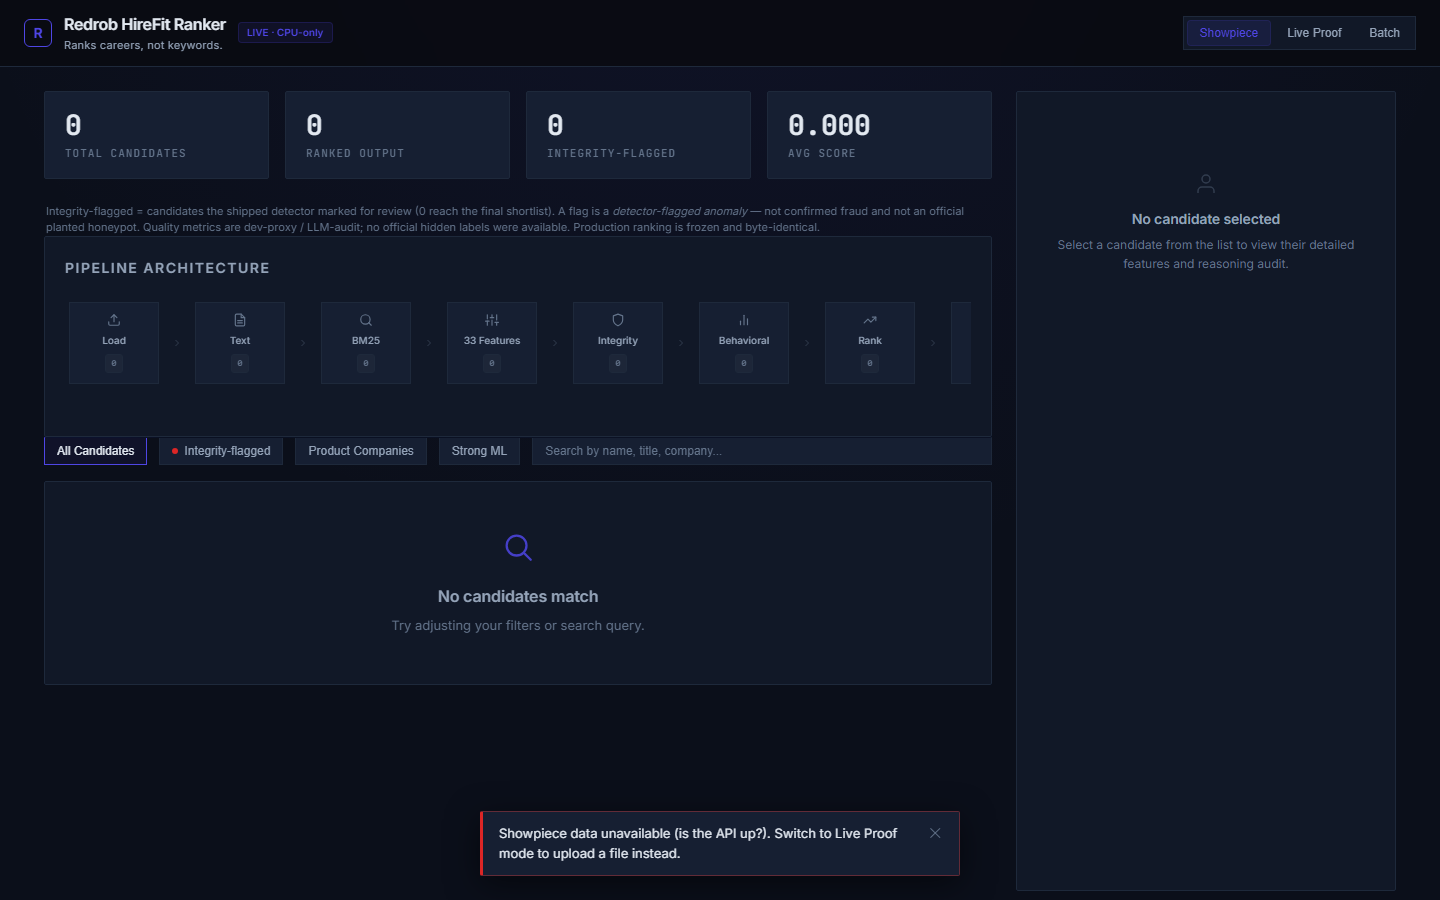
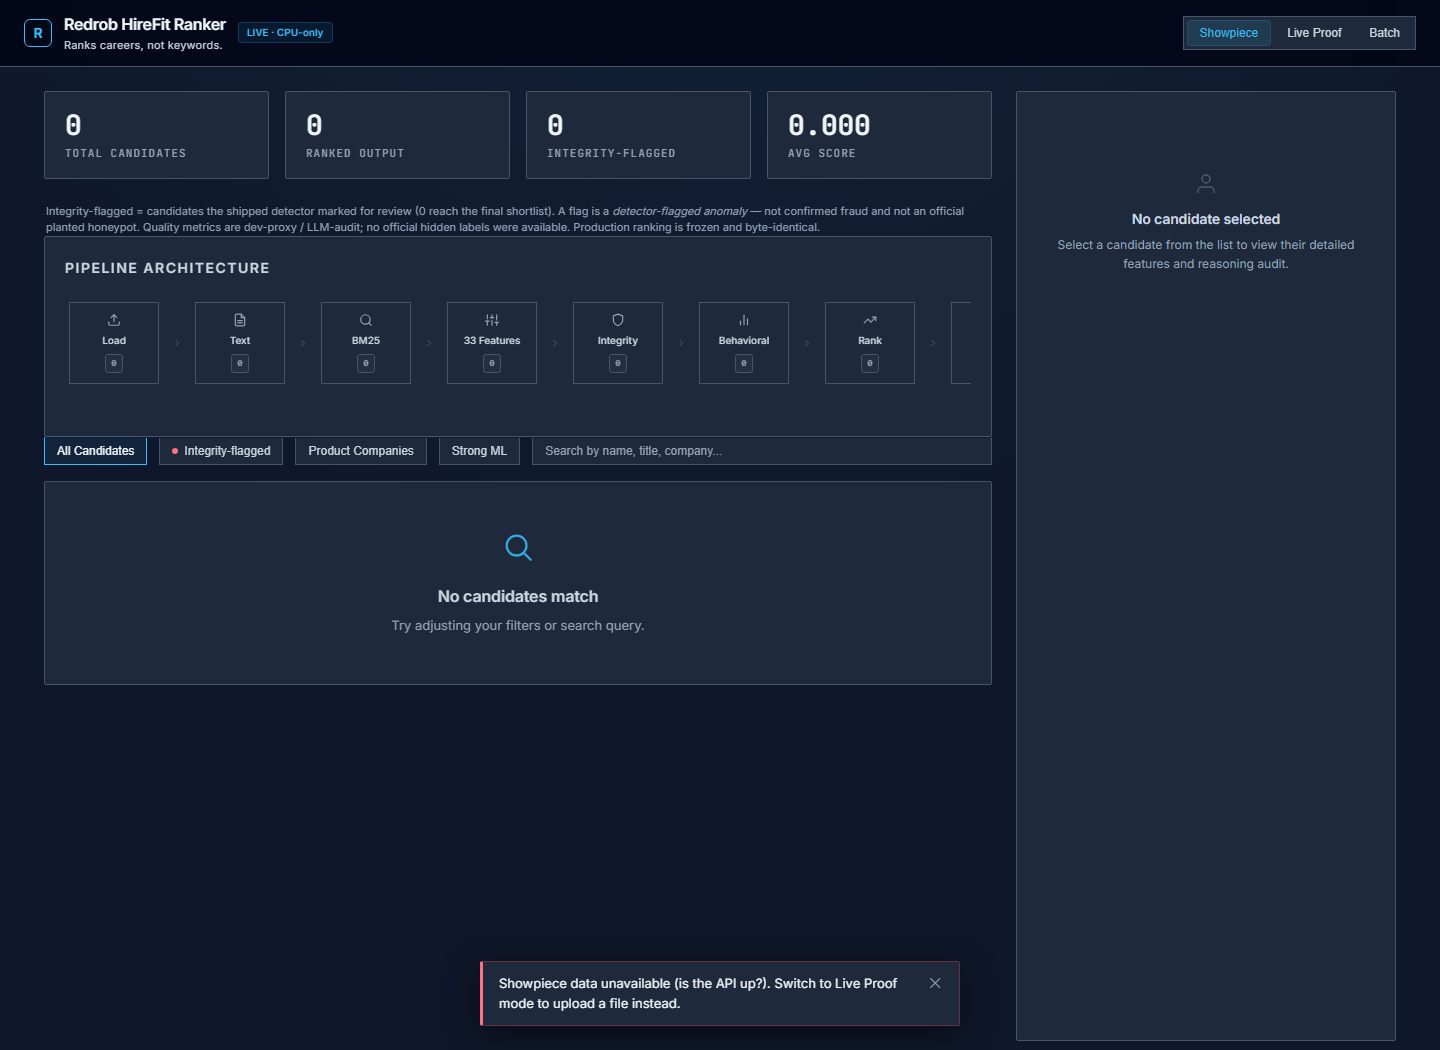
feat(frontend): Flight Deck palette — bright 400-level accents (sky/amber/green/rose) + visible borders on slate, across all 3 surfaces
Fixes low-contrast muted accents on dark: sky #38BDF8 / amber #FBBF24 / green #4ADE80 /
rose #FB7185, slate bg #0F172A, VISIBLE borders #475569, brighter text #F1F5F9/#CBD5E1.
Dark retained (instrument identity). Structure unchanged; golden untouched; 198 tests pass.

diff --git a/apps/api/static/index.html b/apps/api/static/index.html
@@ -11,23 +11,23 @@
     /* ── CSS RESET & BASE ── */
     *, *::before, *::after { margin: 0; padding: 0; box-sizing: border-box; }
     :root {
-      --bg-deep: #0B0F1A;
-      --bg-panel: #111827;
-      --bg-card: #161F32;
-      --border-glass: #1E293B;
-      --text-primary: #E2E8F0;
-      --text-secondary: #94A3B8;
-      --text-muted: #64748B;
+      --bg-deep: #0F172A;
+      --bg-panel: #1E293B;
+      --bg-card: #1E293B;
+      --border-glass: #475569;   /* Flight Deck — visible hairline borders */
+      --text-primary: #F1F5F9;
+      --text-secondary: #CBD5E1;
+      --text-muted: #94A3B8;
       --font-display: 'Inter', -apple-system, 'Segoe UI', sans-serif;
       --font-body: 'Inter', -apple-system, 'Segoe UI', Roboto, sans-serif;
       --font-mono: 'JetBrains Mono', 'SF Mono', Consolas, ui-monospace, monospace;
-      --accent-cyan: #4F46E5; /* Command Core — muted indigo (was teal) */
+      --accent-cyan: #38BDF8; /* Flight Deck — bright sky (reads on dark; was muted indigo) */
       --accent-purple: #64748b; /* Slate */
-      --accent-gold: #D97706;
+      --accent-gold: #FBBF24;
       --accent-silver: #94a3b8;
       --accent-bronze: #b45309;
-      --accent-red: #DC2626;
-      --accent-green: #059669;
+      --accent-red: #FB7185;
+      --accent-green: #4ADE80;
       --glow-cyan: transparent;
       --glow-purple: transparent;
       --glow-gold: transparent;
@@ -66,7 +66,7 @@
       content: '';
       position: absolute;
       inset: 0;
-      background: radial-gradient(circle at 50% -20%, rgba(79, 70, 229, 0.07) 0%, transparent 60%);
+      background: radial-gradient(circle at 50% -20%, rgba(56, 189, 248, 0.07) 0%, transparent 60%);
     }
 
     /* ── GLASSMORPHIC HEADER ── */
@@ -74,7 +74,7 @@
       position: sticky;
       top: 0;
       z-index: 100;
-      background: rgba(9, 11, 17, 0.85);
+      background: rgba(2, 6, 23, 0.88);
       backdrop-filter: blur(16px);
       -webkit-backdrop-filter: blur(16px);
       border-bottom: 1px solid var(--border-glass);
@@ -103,9 +103,9 @@
       font-size: 10px; font-weight: 600;
       padding: 2px 8px;
       border-radius: 4px;
-      background: rgba(79, 70, 229, 0.1);
+      background: rgba(56, 189, 248, 0.1);
       color: var(--accent-cyan);
-      border: 1px solid rgba(79, 70, 229, 0.2);
+      border: 1px solid rgba(56, 189, 248, 0.2);
     }
     .header-controls {
       display: flex; align-items: center; gap: 12px;
@@ -126,9 +126,9 @@
       cursor: pointer; transition: var(--transition);
     }
     .mode-btn.active {
-      background: rgba(79, 70, 229, 0.12);
+      background: rgba(56, 189, 248, 0.12);
       color: var(--accent-cyan);
-      border: 1px solid rgba(79, 70, 229, 0.15);
+      border: 1px solid rgba(56, 189, 248, 0.15);
     }
     .mode-btn:hover:not(.active) { color: var(--text-primary); }
 
@@ -248,7 +248,7 @@
       border-color: rgba(255, 255, 255, 0.15);
     }
     .pipeline-node.active {
-      background: rgba(79, 70, 229, 0.08);
+      background: rgba(56, 189, 248, 0.08);
       border-color: var(--accent-cyan);
     }
     .pipeline-node .icon {
@@ -304,7 +304,7 @@
     }
     .filter-btn:hover { border-color: rgba(255, 255, 255, 0.12); color: var(--text-primary); }
     .filter-btn.active {
-      background: rgba(79, 70, 229, 0.08);
+      background: rgba(56, 189, 248, 0.08);
       border-color: var(--accent-cyan);
       color: var(--text-primary);
     }
@@ -443,8 +443,8 @@
       border: 1px solid var(--border-glass);
     }
     .tag-hp { background: rgba(239, 68, 68, 0.08); color: var(--accent-red); border-color: rgba(239, 68, 68, 0.15); }
-    .tag-ml { background: rgba(5, 150, 105, 0.08); color: var(--accent-green); border-color: rgba(5, 150, 105, 0.15); }
-    .tag-product { background: rgba(79, 70, 229, 0.08); color: var(--accent-cyan); border-color: rgba(79, 70, 229, 0.15); }
+    .tag-ml { background: rgba(74, 222, 128, 0.08); color: var(--accent-green); border-color: rgba(74, 222, 128, 0.15); }
+    .tag-product { background: rgba(56, 189, 248, 0.08); color: var(--accent-cyan); border-color: rgba(56, 189, 248, 0.15); }
 
     /* ── UPLOAD ZONE ── */
     .upload-zone {
@@ -461,7 +461,7 @@
     .upload-zone.active { display: block; }
     .upload-zone:hover, .upload-zone.dragover {
       border-color: var(--accent-cyan);
-      background: rgba(79, 70, 229, 0.02);
+      background: rgba(56, 189, 248, 0.02);
     }
     .upload-zone h3 {
       font-size: 15px; font-weight: 600;
@@ -513,7 +513,7 @@
     /* ── LOADING SPINNER ── */
     .loading-overlay {
       position: fixed; inset: 0;
-      background: rgba(9, 11, 17, 0.85);
+      background: rgba(2, 6, 23, 0.88);
       backdrop-filter: blur(4px);
       z-index: 1000;
       display: none;
@@ -734,7 +734,7 @@
       border-color: rgba(255,255,255,0.12);
       color: var(--text-primary);
     }
-    .skill-tag.advanced { border-color: rgba(5, 150, 105, 0.15); color: var(--accent-green); }
+    .skill-tag.advanced { border-color: rgba(74, 222, 128, 0.15); color: var(--accent-green); }
     .skill-tag.intermediate { border-color: rgba(251, 191, 36, 0.15); color: var(--accent-gold); }
     .skill-tag.beginner { border-color: var(--border-glass); color: var(--text-muted); }
 
@@ -755,7 +755,7 @@
       border-radius: 3px;
       margin-top: 4px;
     }
-    .tier-badge.tier-1 { background: rgba(5, 150, 105, 0.1); color: var(--accent-green); }
+    .tier-badge.tier-1 { background: rgba(74, 222, 128, 0.1); color: var(--accent-green); }
     .tier-badge.tier-2 { background: rgba(251, 191, 36, 0.1); color: var(--accent-gold); }
     .tier-badge.tier-3 { background: rgba(239, 68, 68, 0.1); color: var(--accent-red); }
 

diff --git a/dashboard/theme.py b/dashboard/theme.py
@@ -5,12 +5,12 @@ shadows, monospace numerals. Indigo accent (no teal).
 """
 from __future__ import annotations
 
-# ── tokens ──────────────────────────────────────────────────────────────────
-BG_VOID = "#060913"; BG_BASE = "#0B0F1A"; BG_SURFACE = "#111827"
-BG_ELEVATED = "#161F32"; BG_INPUT = "#0E1420"
-BORDER = "#1E293B"; BORDER_ACTIVE = "#334155"
-TEXT_PRIMARY = "#E2E8F0"; TEXT_SECONDARY = "#94A3B8"; TEXT_MUTED = "#64748B"; TEXT_MONO = "#CBD5E1"
-ACCENT = "#4F46E5"; AMBER = "#D97706"; RED = "#DC2626"; GREEN = "#059669"; BLUE = "#2563EB"
+# ── tokens (Flight Deck: bright 400-level accents + visible borders on slate, for contrast) ──
+BG_VOID = "#020617"; BG_BASE = "#0F172A"; BG_SURFACE = "#1E293B"
+BG_ELEVATED = "#334155"; BG_INPUT = "#0B1221"
+BORDER = "#475569"; BORDER_ACTIVE = "#64748B"          # borders are VISIBLE, not near-black
+TEXT_PRIMARY = "#F1F5F9"; TEXT_SECONDARY = "#CBD5E1"; TEXT_MUTED = "#94A3B8"; TEXT_MONO = "#E2E8F0"
+ACCENT = "#38BDF8"; AMBER = "#FBBF24"; RED = "#FB7185"; GREEN = "#4ADE80"; BLUE = "#38BDF8"
 FONT_UI = "'Inter',-apple-system,BlinkMacSystemFont,'Segoe UI',sans-serif"
 FONT_MONO = "'JetBrains Mono','SF Mono',Consolas,ui-monospace,monospace"
 
